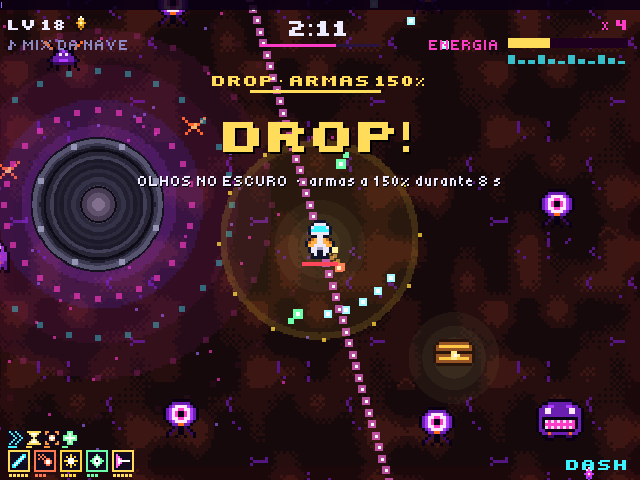
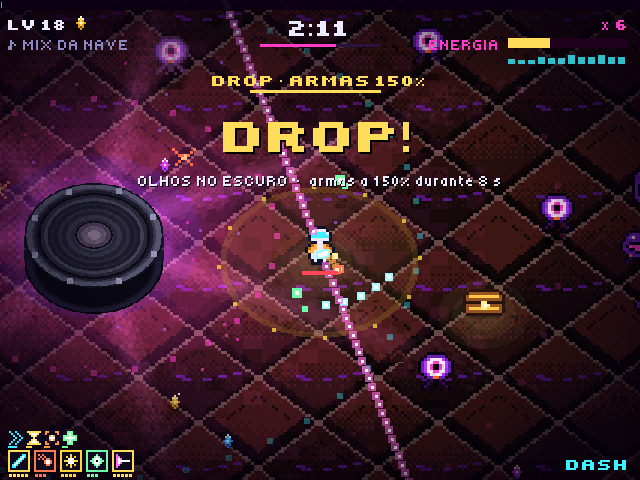
v1.10: manual, README, credits and screenshots
LEIA-ME.txt gets a NOVO NA v1.10 section and its pet, quiz, Void Runner
and Loop Reactor pages now say what the app does. README and CREDITS
use the name DISCO VOADOR and credit VCSL; the Void Runner screenshot is
the 2.5D look; the in-app credits say v1.10.

diff --git a/ports/mothership/credits.py b/ports/mothership/credits.py
@@ -12,7 +12,7 @@ import trailer
 from engine import C, W, H, SR, StreamVoice, draw_ship
 
 D = os.path.join(engine.ASSETS, "trailer")
-VERSION = "v1.9"
+VERSION = "v1.10"
 GOLD = (255, 214, 80)
 OPENER = ["Num cartão microSD,", "dentro de uma consola de bolso..."]
 CRAWL = [

diff --git a/README.md b/README.md
@@ -9,8 +9,8 @@ Também corre no PC. Escrita em Python + SDL2, com a interface em português.
 |---|---|---|
 | ![Ponte](docs/ponte.png) | ![Beat Forge](docs/beat_forge.png) | ![Void Runner](docs/void_runner.png) |
 | A ponte: missões e as 12 apps | Beat Forge: caixa de ritmos | Void Runner: a tua música é o nível |
-| ![Som de Ouro](docs/som_de_ouro_festa.png) | ![Beat Duel](docs/beat_duel_frente_a_frente.png) | |
-| Som de Ouro: quiz até 10 jogadores | Beat Duel frente a frente | |
+| ![Disco Voador](docs/disco_voador_festa.png) | ![Beat Duel](docs/beat_duel_frente_a_frente.png) | |
+| Disco Voador: quiz até 10 jogadores | Beat Duel frente a frente | |
 
 ## Download
 
@@ -29,7 +29,7 @@ Vídeos: [trailer (1 min 18 s)](docs/video/trailer.mp4) com imagens reais das ap
 1. **PULSAR**: o tempo (BPM) e o metrónomo, com tap tempo.
 2. **BEAT FORGE**: caixa de ritmos com grelha de 8 pistas, construtor por estilo e arranjo.
 3. **ABDUCTOR**: grava a voz (micro USB) ou corta músicas em fatias para tocar.
-4. **LOOP REACTOR**: 8 pads de loops sempre no compasso.
+4. **LOOP REACTOR**: 8 pads de loops sempre no compasso, em 13 bancos (de HIP HOP, LATINO e ÉPICO a ROCK).
 5. **XENO SYNTH**: sintetizador em escala, sem notas erradas.
 6. **VOX NEBULA**: a tua voz com efeitos ao vivo.
 7. **TWIN DECKS**: dois decks com crossfader, como um DJ.
@@ -38,8 +38,8 @@ Vídeos: [trailer (1 min 18 s)](docs/video/trailer.mp4) com imagens reais das ap
 **Jogos**
 
 - **XENO PET**: um bicho alien que cresce contigo, em tempo real.
-- **SOM DE OURO**: quiz de música com 345 perguntas em 4 níveis. Modo FESTA para 2 a 10 jogadores.
-- **VOID RUNNER**: a tua música é o nível (ao estilo do Beat Hazard). Os drops trazem hordas e baús, e O GRAVE, um subwoofer gigante, puxa-te aos poucos.
+- **DISCO VOADOR**: quiz de música com 345 perguntas em 4 níveis. Modo FESTA para 2 a 10 jogadores.
+- **VOID RUNNER**: a tua música é o nível (ao estilo do Beat Hazard), em pixel 3D visto de cima, com sombras suaves e a luz do Grave. Os drops trazem hordas e baús, e O GRAVE, um subwoofer gigante, puxa-te com um baixo que chega a quase todo o mapa.
 - **BEAT DUEL**: jogo de ritmo a dois, também frente a frente na mesma consola deitada.
 
 Há ainda trailer, créditos, cinco ambientes de música na intro, missões para quem está a começar e uma ajuda em todas as apps (segurar SELECT). O manual completo está em [`LEIA-ME.txt`](LEIA-ME.txt).
@@ -75,12 +75,12 @@ ports/
     ui.py, help.py        componentes da interface e textos de ajuda
     forge.py, chop.py, decks.py, vox.py, ...   uma app por ficheiro
     voidrunner.py, songscan.py   o jogo e a análise da música (intensidade, batidas, drops)
-    quiz.py, quizbank.py  o Som de Ouro e o banco de perguntas
+    quiz.py, quizbank.py  o Disco Voador e o banco de perguntas
     trailer.py, credits.py   o trailer e os créditos (desenhados em tempo real)
     lib/sdl2/             pysdl2, incluído para a consola
     assets/               sons, músicas, pixel art (.frm), fontes
 tools/
-  build_*.py              geram os assets: sons, músicas, fontes, arte, trailer
+  build_*.py              geram os assets: sons, músicas, fontes, arte, trailer, sample packs
   render_trailer.py       grava o trailer/créditos em MP4 (precisa do ffmpeg)
   package.py              faz os zips da release
   *_test.py               testes headless (SDL_VIDEODRIVER=dummy)
@@ -89,13 +89,13 @@ Orimbux Mothership (PC).bat   abre a app no Windows a partir deste repositório
 ```
 
 - Sem dependências pesadas na consola: só Python 3, SDL2 e `audioop`.
-- Os assets estão no repositório já gerados. As ferramentas em `tools/` usam `numpy` e `Pillow`.
+- Os assets estão no repositório já gerados. As ferramentas em `tools/` usam `numpy` e `Pillow` (`build_packs.py` também `soundfile`).
 - Testes: `python3 tools/v19_test.py /tmp/out`, `python3 tools/vr_test.py /tmp/out 0` (um bot joga o Void Runner), etc.
 
 ## Licença
 
 - **Código:** MIT (ver [`LICENSE`](LICENSE)).
-- **Samples:** da biblioteca do Sonic Pi, todos CC0, incluindo os doados por Arovane e The Black Dog.
+- **Samples:** da biblioteca do Sonic Pi (incluindo os doados por Arovane e The Black Dog) e do VCSL (Versilian Community Sample Library), todos CC0.
 - **Letra:** Tiny5, SIL Open Font License.
 - Detalhes em [`CREDITS.md`](CREDITS.md).
 
@@ -108,4 +108,4 @@ ORIMBUX MOTHERSHIP is a set of 12 music and game apps for the R36S handheld (Ark
 - **Music:** tempo, drum machine, sampler/slicer, loop pads, synth, voice FX, two DJ decks and a player.
 - **Games:** a virtual pet, a music quiz for up to 10 players, a Beat Hazard-like shooter driven by your own song, and a two-player rhythm duel.
 - **Download:** [ZIP of the repository](https://github.com/GiuseppeLomb/Orimbux-Mothership-R36S/archive/refs/heads/main.zip). R36S: copy the contents of `ports/` to the SD card's `ports` folder. Windows: run `Orimbux Mothership (PC).bat`.
-- **Code:** MIT. Samples are CC0 (Sonic Pi library), the font is Tiny5 (OFL).
+- **Code:** MIT. Samples are CC0 (Sonic Pi library and VCSL), the font is Tiny5 (OFL).

diff --git a/CREDITS.md b/CREDITS.md
@@ -8,6 +8,6 @@
 | **PySDL2** | `ports/mothership/lib/sdl2` | Domínio público (CC0) / zlib |
 | **SDL2** | fornecido pelo sistema (consola) ou por `pysdl2-dll` (PC) | zlib |
 
-Tudo o resto (código, músicas originais NEON DRIFT, PIXEL RUSH, VOID BASS, MOON HOP, MOTHERSHIP ANTHEM, tema do trailer e dos créditos, os 5 ambientes da intro, a pixel art e as perguntas do Som de Ouro) foi feito para este projeto e está sob a licença MIT do repositório.
+Tudo o resto (código, músicas originais NEON DRIFT, PIXEL RUSH, VOID BASS, MOON HOP, MOTHERSHIP ANTHEM, tema do trailer e dos créditos, os 5 ambientes da intro, a pixel art e as perguntas do Disco Voador) foi feito para este projeto e está sob a licença MIT do repositório.
 
 Feito por Orimbux, com Claude.
